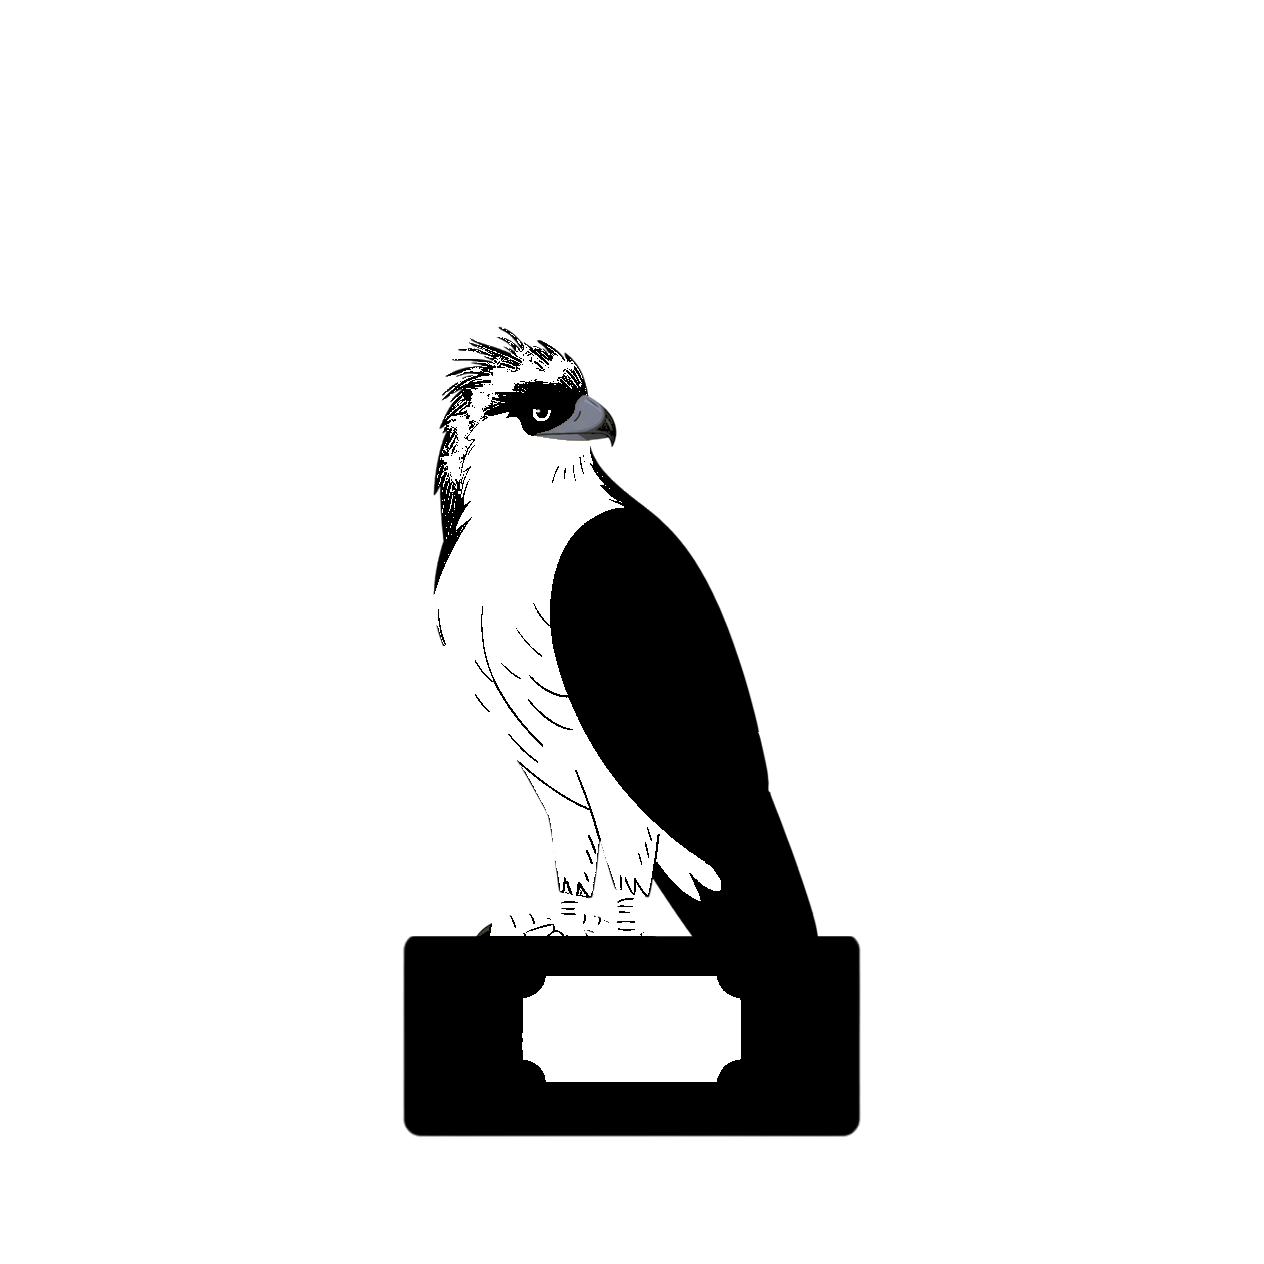
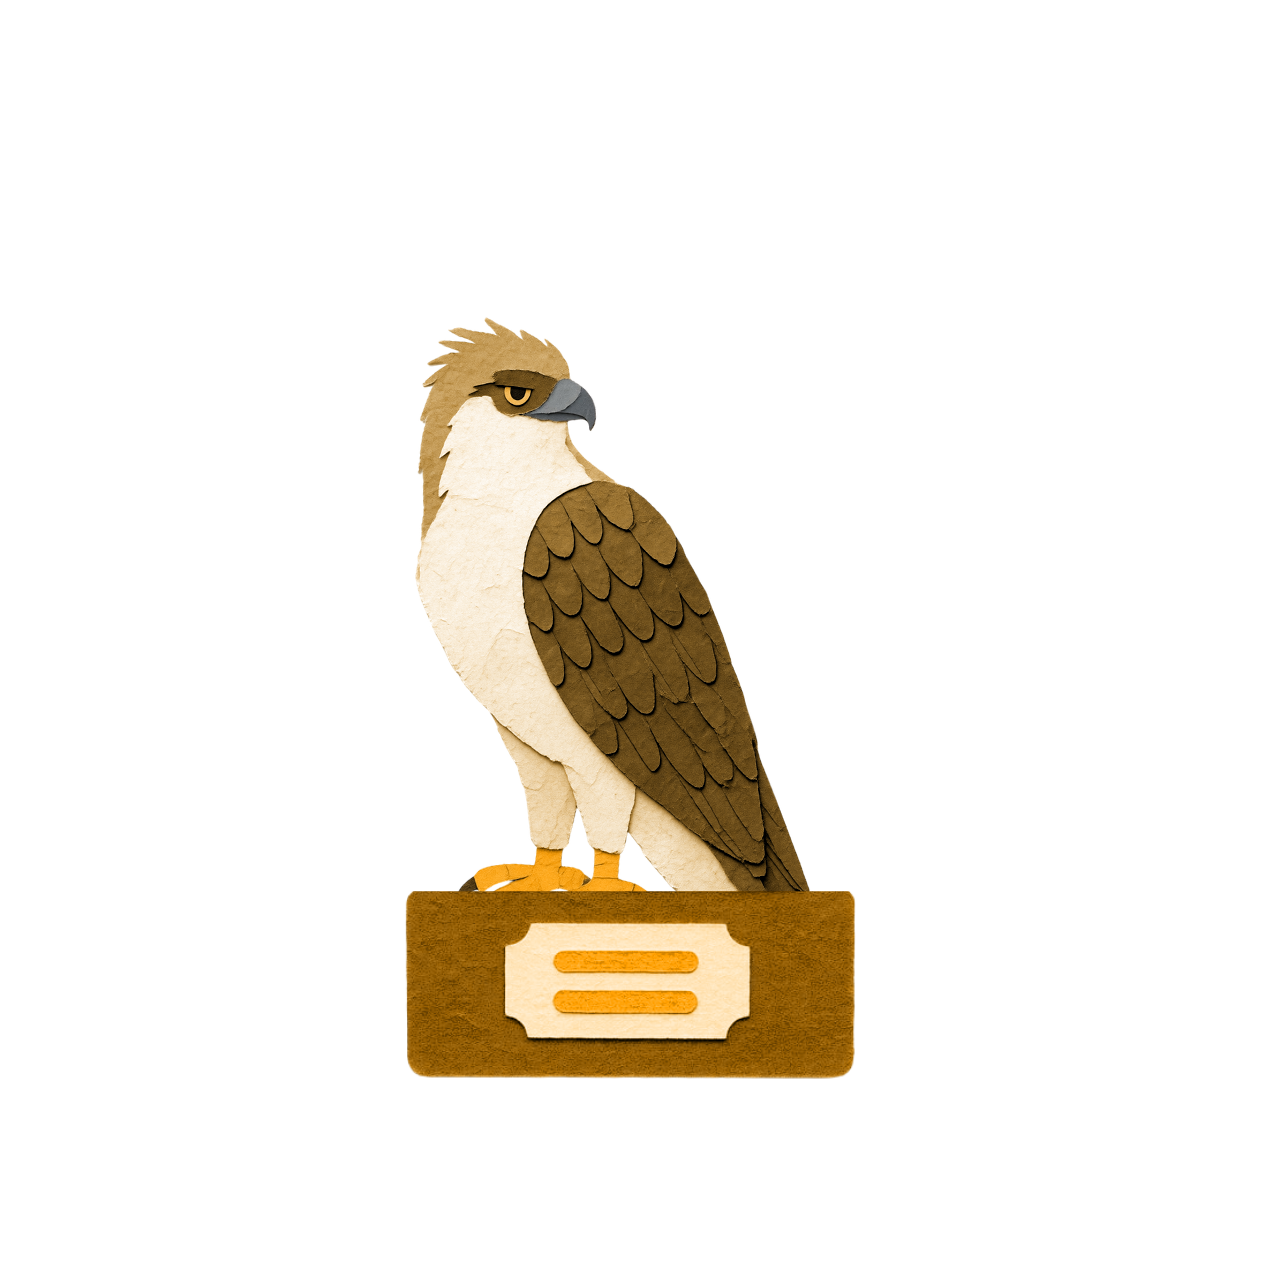
Famille rapaces diurnes : 6 PNG papier-craft Canva a la place des variantes generees.
Source Downloads/diurne/. Style aligne sur nocturnes et generic. Cache v134.

Changed region(s): [[0.3085, 0.2468, 0.6788, 0.9256]]

diff --git a/service-worker.js b/service-worker.js
@@ -3,7 +3,7 @@
 //   puis rafraichit en background. Prochain reload = nouvelle version.
 // - Requetes cross-origin (Firestore, iNaturalist, xeno-canto, Wikipedia, etc.) : reseau seul.
 // - Bump CACHE_VERSION quand on veut invalider volontairement.
-const CACHE_VERSION = 'v133-2026-09-14-trophees-locked-visibles';
+const CACHE_VERSION = 'v134-2026-09-14-rapace-diurne-canva';
 const CACHE_NAME = 'lmb-' + CACHE_VERSION;
 
 self.addEventListener('install', (e) => {
